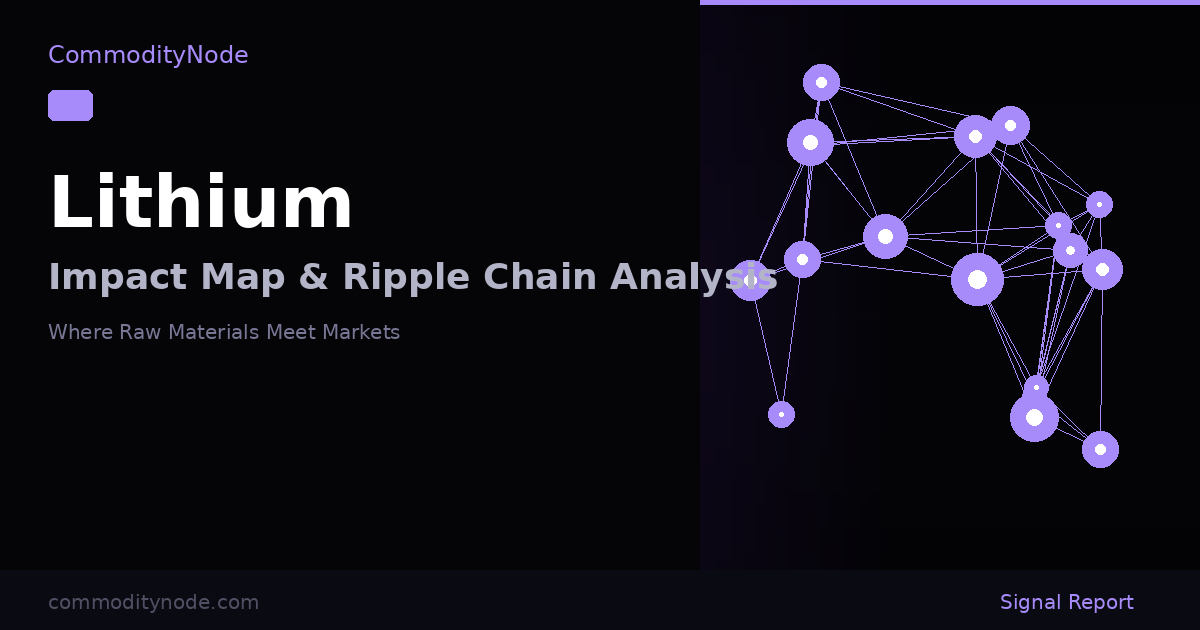
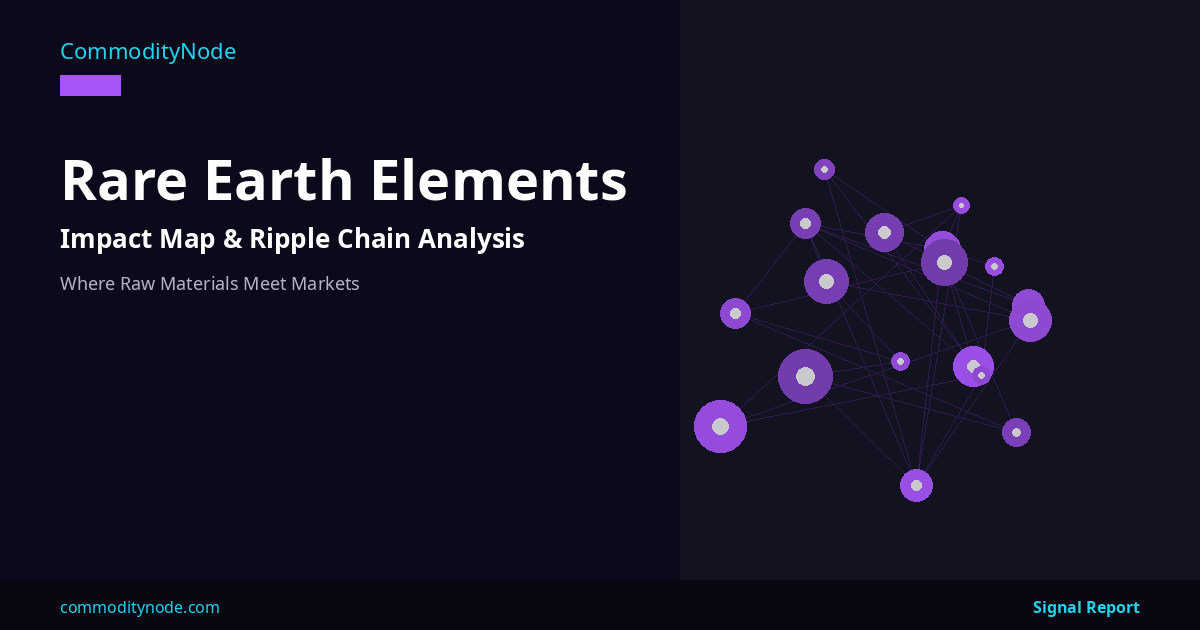
seo: generate 15 custom OG images for commodities using fallback/wrong images
- New OG images: ammonia, ethanol, feeder-cattle, graphite, lean-hogs,
  live-cattle, manganese, orange-juice, palm-oil, potash, rare-earth,
  rhodium, rubber, soybean-meal, soybean-oil
- Each image matches site design (dark theme, network graph, accent color)
- Updated front matter image paths in all 15 commodity files
- Added generate_og.py script for future image generation

diff --git a/scripts/generate_og.py b/scripts/generate_og.py
@@ -1,0 +1,159 @@
+#!/usr/bin/env python3
+"""Generate OG images for commodities missing custom images."""
+
+import math
+import random
+from PIL import Image, ImageDraw, ImageFont
+
+# Fonts
+FONT_BOLD = "/usr/share/fonts/truetype/noto/NotoSans-Bold.ttf"
+FONT_REG = "/usr/share/fonts/truetype/noto/NotoSans-Regular.ttf"
+
+W, H = 1200, 630
+BG = (10, 10, 26)        # #0a0a1a
+PANEL = (18, 18, 32)     # right panel
+CYAN = (34, 211, 238)    # #22d3ee
+BOTTOM_BAR = (8, 8, 18)
+
+COMMODITIES = {
+    "ammonia":       {"name": "Ammonia",        "color": (59, 130, 246)},   # blue
+    "ethanol":       {"name": "Ethanol",        "color": (34, 197, 94)},    # green
+    "feeder-cattle": {"name": "Feeder Cattle",  "color": (180, 83, 9)},     # amber-dark
+    "graphite":      {"name": "Graphite",       "color": (148, 163, 184)},  # slate
+    "lean-hogs":     {"name": "Lean Hogs",      "color": (239, 68, 68)},    # red
+    "live-cattle":   {"name": "Live Cattle",    "color": (217, 119, 6)},    # amber
+    "manganese":     {"name": "Manganese",      "color": (139, 92, 246)},   # violet
+    "orange-juice":  {"name": "Orange Juice",   "color": (251, 146, 60)},   # orange
+    "palm-oil":      {"name": "Palm Oil",       "color": (132, 204, 22)},   # lime
+    "potash":        {"name": "Potash",         "color": (236, 72, 153)},   # pink
+    "rare-earth":    {"name": "Rare Earth Elements", "color": (168, 85, 247)}, # purple
+    "rhodium":       {"name": "Rhodium",        "color": (192, 192, 210)},  # silver
+    "rubber":        {"name": "Rubber",         "color": (101, 163, 13)},   # green-dark
+    "soybean-meal":  {"name": "Soybean Meal",   "color": (202, 138, 4)},    # yellow-dark
+    "soybean-oil":   {"name": "Soybean Oil",    "color": (234, 179, 8)},    # yellow
+}
+
+
+def draw_network(draw, color, seed=42):
+    """Draw a network graph on the right side."""
+    rng = random.Random(seed)
+    cx, cy = 900, 315
+    nodes = []
+    for _ in range(18):
+        angle = rng.uniform(0, 2 * math.pi)
+        dist = rng.uniform(40, 230)
+        x = cx + dist * math.cos(angle)
+        y = cy + dist * math.sin(angle)
+        r = rng.randint(8, 28)
+        nodes.append((x, y, r))
+
+    # Draw edges
+    line_color = (*color, 100)
+    for i, (x1, y1, _) in enumerate(nodes):
+        for j, (x2, y2, _) in enumerate(nodes):
+            if i < j and rng.random() < 0.25:
+                draw.line([(x1, y1), (x2, y2)], fill=(*color, 60), width=1)
+
+    # Draw nodes
+    for x, y, r in nodes:
+        alpha = rng.randint(160, 240)
+        node_color = (*color, alpha)
+        draw.ellipse([x - r, y - r, x + r, y + r], fill=node_color)
+        # Inner dot
+        ir = max(2, r // 3)
+        draw.ellipse([x - ir, y - ir, x + ir, y + ir], fill=(255, 255, 255, 200))
+
+
+def generate_og(slug, info, output_dir):
+    """Generate a single OG image."""
+    img = Image.new("RGBA", (W, H), BG)
+    draw = ImageDraw.Draw(img)
+
+    color = info["color"]
+    name = info["name"]
+
+    # Right panel background
+    draw.rectangle([600, 0, W, H], fill=PANEL)
+
+    # Gradient overlay on panel (subtle)
+    for x in range(600, 680):
+        alpha = int(255 * (680 - x) / 80)
+        draw.line([(x, 0), (x, H)], fill=(*BG, alpha))
+
+    # Network graph
+    draw_network(draw, color, seed=hash(slug) % 10000)
+
+    # Bottom bar
+    draw.rectangle([0, H - 50, W, H], fill=BOTTOM_BAR)
+
+    # CommodityNode text (top-left)
+    try:
+        font_brand = ImageFont.truetype(FONT_REG, 22)
+    except Exception:
+        font_brand = ImageFont.load_default()
+    draw.text((60, 35), "CommodityNode", fill=CYAN, font=font_brand)
+
+    # Accent color bar
+    draw.rectangle([60, 75, 120, 95], fill=color)
+
+    # Commodity name (large)
+    try:
+        font_title = ImageFont.truetype(FONT_BOLD, 72)
+    except Exception:
+        font_title = ImageFont.load_default()
+
+    # Handle long names
+    if len(name) > 14:
+        try:
+            font_title = ImageFont.truetype(FONT_BOLD, 56)
+        except Exception:
+            pass
+
+    draw.text((60, 140), name, fill=(255, 255, 255), font=font_title)
+
+    # Subtitle
+    try:
+        font_sub = ImageFont.truetype(FONT_BOLD, 26)
+    except Exception:
+        font_sub = ImageFont.load_default()
+    y_sub = 240 if len(name) <= 14 else 220
+    draw.text((60, y_sub), "Impact Map & Ripple Chain Analysis", fill=(255, 255, 255), font=font_sub)
+
+    # Tagline
+    try:
+        font_tag = ImageFont.truetype(FONT_REG, 18)
+    except Exception:
+        font_tag = ImageFont.load_default()
+    draw.text((60, y_sub + 50), "Where Raw Materials Meet Markets", fill=(180, 180, 200), font=font_tag)
+
+    # Bottom bar text
+    try:
+        font_bottom = ImageFont.truetype(FONT_REG, 16)
+    except Exception:
+        font_bottom = ImageFont.load_default()
+    draw.text((60, H - 35), "commoditynode.com", fill=CYAN, font=font_bottom)
+
+    try:
+        font_badge = ImageFont.truetype(FONT_BOLD, 16)
+    except Exception:
+        font_badge = ImageFont.load_default()
+    bbox = draw.textbbox((0, 0), "Signal Report", font=font_badge)
+    tw = bbox[2] - bbox[0]
+    draw.text((W - 60 - tw, H - 35), "Signal Report", fill=CYAN, font=font_badge)
+
+    # Convert to RGB and save
+    rgb_img = Image.new("RGB", (W, H), BG)
+    rgb_img.paste(img, mask=img.split()[3])
+    outpath = f"{output_dir}/og-{slug}.png"
+    rgb_img.save(outpath, "PNG", optimize=True)
+    print(f"  Generated: {outpath}")
+    return outpath
+
+
+if __name__ == "__main__":
+    import os
+    output_dir = os.path.join(os.path.dirname(os.path.dirname(__file__)), "assets", "images")
+    print(f"Output directory: {output_dir}")
+    for slug, info in COMMODITIES.items():
+        generate_og(slug, info, output_dir)
+    print(f"\nDone! Generated {len(COMMODITIES)} OG images.")

diff --git a/_commodities/soybean-meal.md b/_commodities/soybean-meal.md
@@ -1,7 +1,7 @@
 ---
 layout: commodity
 unit: "cents/short ton"
-image: "/assets/images/og-soybeans.png"
+image: "/assets/images/og-soybean-meal.png"
 title: "Soybean Meal Price Impact: Livestock Feed, Crush Margins & Agribusiness"
 description: "Soybean meal as the dominant global protein source in animal feed, driving the soy crush spread and livestock economics."
 commodity_slug: "soybean-meal"

diff --git a/_commodities/rare-earth.md b/_commodities/rare-earth.md
@@ -1,6 +1,6 @@
 ---
 layout: commodity
-image: "/assets/images/og-lithium.png"
+image: "/assets/images/og-rare-earth.png"
 title: "Rare Earth Elements Price Impact: Tech Supply Chain & Critical Minerals"
 description: "Rare earth elements powering permanent magnets for EV motors, wind turbines, and defense systems, with extreme Chinese supply chain dominance."
 commodity_slug: "rare-earth"

diff --git a/_commodities/orange-juice.md b/_commodities/orange-juice.md
@@ -1,7 +1,7 @@
 ---
 layout: commodity
 unit: "cents/lb"
-image: "/assets/images/og-coffee.png"
+image: "/assets/images/og-orange-juice.png"
 title: "Orange Juice Price Impact: Citrus Supply, Weather Risk & ETFs"
 description: "How FCOJ futures ripple through beverage companies, Florida agriculture, Brazilian exports, and vitamin supplement markets."
 commodity_slug: "orange-juice"

diff --git a/_commodities/soybean-oil.md b/_commodities/soybean-oil.md
@@ -1,7 +1,7 @@
 ---
 layout: commodity
 unit: "cents/lb"
-image: "/assets/images/og-soybeans.png"
+image: "/assets/images/og-soybean-oil.png"
 title: "Soybean Oil Price Impact: Food Industry, Biofuel & Crush Margins"
 description: "Soybean oil as a dual-use commodity bridging food markets and renewable diesel feedstock demand."
 commodity_slug: "soybean-oil"

diff --git a/_commodities/palm-oil.md b/_commodities/palm-oil.md
@@ -14,7 +14,7 @@ substitutes: ["Soybean Oil", "Canola Oil", "Sunflower Oil"]
 industries: ["consumer-goods", "food-processing"]
 themes: ["Food Inflation"]
 tags: [palm oil, vegetable oil, Indonesia, Malaysia, food processing, cosmetics, biodiesel, supply chain]
-image: /assets/images/og-soybeans.png
+image: "/assets/images/og-palm-oil.png"
 ---
 
 <script>

diff --git a/_commodities/feeder-cattle.md b/_commodities/feeder-cattle.md
@@ -1,6 +1,6 @@
 ---
 layout: commodity
-image: "/assets/images/og-corn.png"
+image: "/assets/images/og-feeder-cattle.png"
 title: "Feeder Cattle Price Impact: Beef Supply Chain & Cattle Cycle"
 description: "Feeder cattle as weaned calves entering feedlots, driven by the cattle cycle, corn costs, and drought conditions."
 commodity_slug: "feeder-cattle"

diff --git a/_commodities/graphite.md b/_commodities/graphite.md
@@ -1,6 +1,6 @@
 ---
 layout: commodity
-image: "/assets/images/og-lithium.png"
+image: "/assets/images/og-graphite.png"
 title: "Graphite Price Impact: EV Batteries & Anode Supply"
 description: "Graphite as the dominant anode material in lithium-ion batteries, with Chinese processing dominance and EV-driven demand growth."
 commodity_slug: "graphite"

diff --git a/_commodities/live-cattle.md b/_commodities/live-cattle.md
@@ -1,6 +1,6 @@
 ---
 layout: commodity
-image: "/assets/images/og-corn.png"
+image: "/assets/images/og-live-cattle.png"
 title: "Live Cattle Price Impact: Beef Markets, Feed Costs & Agribusiness"
 description: "Live cattle as the cornerstone of the US beef market driven by cattle cycle dynamics and drought risk."
 commodity_slug: "live-cattle"

diff --git a/_commodities/rubber.md b/_commodities/rubber.md
@@ -1,6 +1,6 @@
 ---
 layout: commodity
-image: "/assets/images/og-copper.png"
+image: "/assets/images/og-rubber.png"
 title: "Rubber Price Impact: Auto, Tires & Industrial Supply Chain"
 description: "Natural rubber's tire industry dominance, Southeast Asian supply concentration, and synthetic substitution dynamics."
 commodity_slug: "rubber"

diff --git a/_commodities/manganese.md b/_commodities/manganese.md
@@ -1,6 +1,6 @@
 ---
 layout: commodity
-image: "/assets/images/og-steel.png"
+image: "/assets/images/og-manganese.png"
 title: "Manganese Price Impact: Steel Alloys, EV Batteries & Mining Stocks"
 description: "How manganese price movements ripple through steelmakers, EV battery producers, and mining companies."
 commodity_slug: "manganese"

diff --git a/_commodities/potash.md b/_commodities/potash.md
@@ -1,6 +1,6 @@
 ---
 layout: commodity
-image: "/assets/images/og-corn.png"
+image: "/assets/images/og-potash.png"
 title: "Potash Price Impact: Crop Yields, Fertilizer Stocks & Agriculture"
 description: "How potash (KCl) price movements ripple through fertilizer producers, agribusiness, and global food security."
 commodity_slug: "potash"
